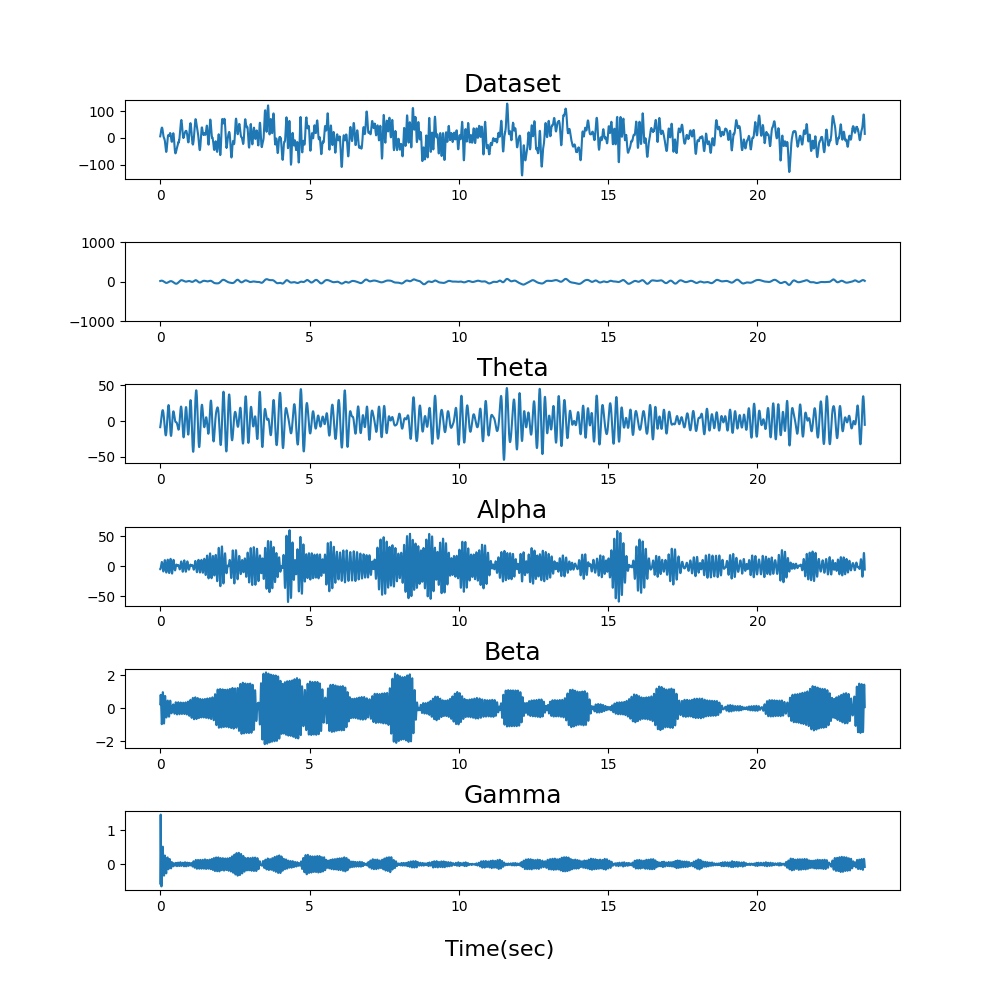
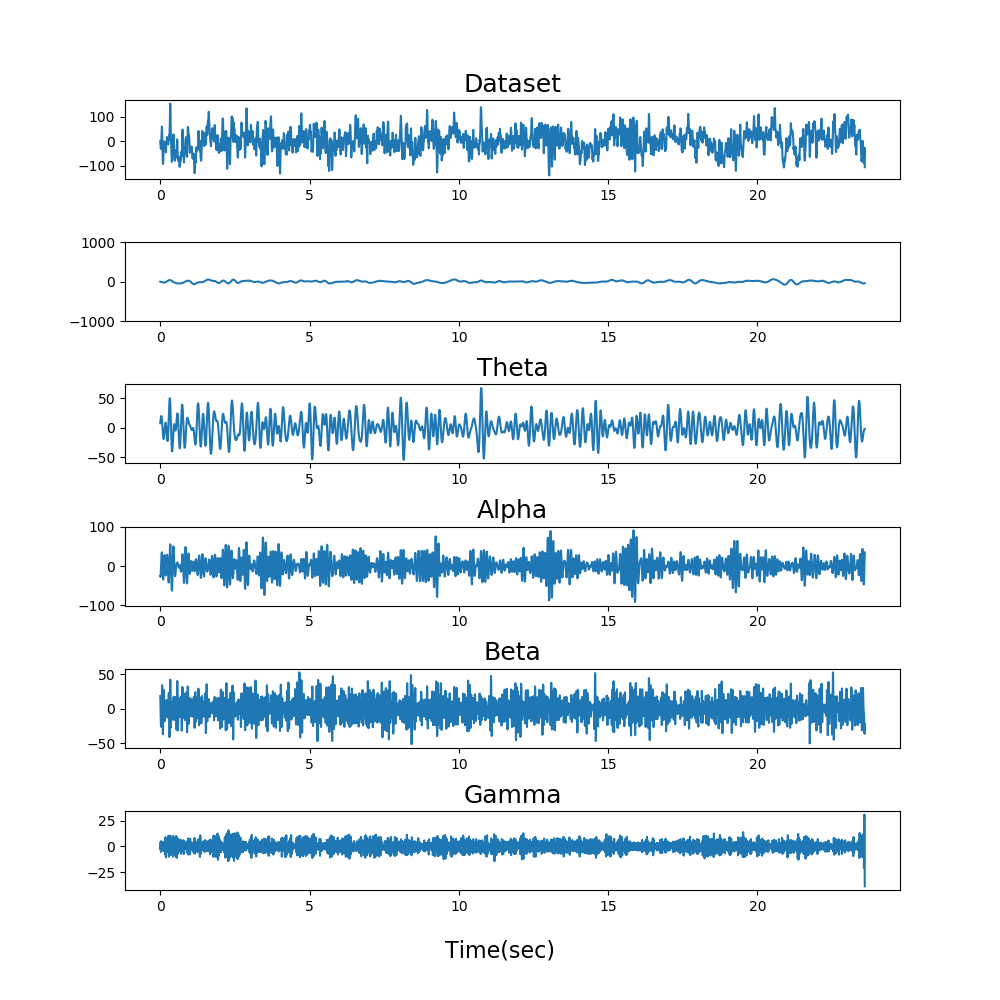
none value and integer

diff --git a/FLASK_APP/flask_app/forms.py b/FLASK_APP/flask_app/forms.py
@@ -20,7 +20,7 @@ class VisualizeForm(FlaskForm):
     # address_B = StringField("address_B", [DataRequired()])
     files_A = MultipleFileField('File(s) Upload A', [DataRequired()])
     files_B = MultipleFileField('File(s) Upload E', [DataRequired()])
-    sampling_rate = StringField("sampling_rate", [DataRequired()])
+    sampling_rate = StringField("sampling_rate", [DataRequired()],default="173.6")
     apply_filter = SelectField(
         "apply_filter",
         [DataRequired()],
@@ -29,22 +29,24 @@ class VisualizeForm(FlaskForm):
             ("no", "no"),
         ],
     )
-    low_frequency = SelectField(
-        "low_frequency",
-        [DataRequired()],
-        choices=[
-            ("80", "80"),
-            ("None", "None"),
-        ],
-    )
-    high_frequency = SelectField(
-        "high_frequency",
-        [DataRequired()],
-        choices=[
-            ("10", "10"),
-            ("None", "None"),
-        ],
-    )
+    low_frequency = StringField("low_frequency", [DataRequired()],default="10")
+    # low_frequency = SelectField(
+    #     "low_frequency",
+    #     [DataRequired()],
+    #     choices=[
+    #         ("80", "80"),
+    #         ("None", "None"),
+    #     ],
+    # )
+    high_frequency = StringField("high_frequency", [DataRequired()],default="80")
+    # high_frequency = SelectField(
+    #     "high_frequency",
+    #     [DataRequired()],
+    #     choices=[
+    #         ("10", "10"),
+    #         ("None", "None"),
+    #     ],
+    # )
     filter_method = SelectField(
         "filter_method",
         [DataRequired()],
@@ -62,25 +64,25 @@ class VisualizeForm(FlaskForm):
             ("blackman", "blackman"),
         ],
     )
-    delta_frequency_initial = StringField("delta_frequency_initial", [DataRequired()])
-    delta_frequency_final = StringField("delta_frequency_final", [DataRequired()])
-    theta_frequency_initial = StringField("theta_frequency_initial", [DataRequired()])
-    theta_frequency_final = StringField("theta_frequency_final", [DataRequired()])
-    alpha_frequency_initial = StringField("alpha_frequency_initial", [DataRequired()])
-    alpha_frequency_final = StringField("alpha_frequency_final", [DataRequired()])
-    beta_frequency_initial = StringField("beta_frequency_initial", [DataRequired()])
-    beta_frequency_final = StringField("beta_frequency_final", [DataRequired()])
-    gamma_frequency_initial = StringField("gamma_frequency_initial", [DataRequired()])
-    gamma_frequency_final = StringField("gamma_frequency_final", [DataRequired()])
-    initial_datapoint = StringField("initial_datapoint", [DataRequired()])
-    final_datapoint = StringField("final_datapoint", [DataRequired()])
+    delta_frequency_initial = StringField("delta_frequency_initial", [DataRequired()],default="0.5")
+    delta_frequency_final = StringField("delta_frequency_final", [DataRequired()],default="3.5")
+    theta_frequency_initial = StringField("theta_frequency_initial", [DataRequired()],default="3.5")
+    theta_frequency_final = StringField("theta_frequency_final", [DataRequired()],default="7.5")
+    alpha_frequency_initial = StringField("alpha_frequency_initial", [DataRequired()],default="7.5")
+    alpha_frequency_final = StringField("alpha_frequency_final", [DataRequired()],default="13")
+    beta_frequency_initial = StringField("beta_frequency_initial", [DataRequired()],default="13")
+    beta_frequency_final = StringField("beta_frequency_final", [DataRequired()],default="30")
+    gamma_frequency_initial = StringField("gamma_frequency_initial", [DataRequired()],default="30")
+    gamma_frequency_final = StringField("gamma_frequency_final", [DataRequired()],default="50")
+    initial_datapoint = StringField("initial_datapoint", [DataRequired()],default="0")
+    final_datapoint = StringField("final_datapoint", [DataRequired()],default="4097")
 
     submit = SubmitField("Next")
 
 
 class FeatureForm(FlaskForm):
     """Feature Form"""
-    window_size = StringField("window_size", [DataRequired()])
+    window_size = StringField("window_size", [DataRequired()],default="4097")
     feat_input = SelectMultipleField(
         "feat_input",
         choices=[
@@ -110,8 +112,8 @@ class FeatureForm(FlaskForm):
             ("none", "none"),
         ],
     )
-    percentage_or_value = StringField("percentage_or_value", [DataRequired()])
-    cv_fold = StringField("cv_fold", [DataRequired()])
+    percentage_or_value = StringField("percentage_or_value", [DataRequired()],default="20")
+    cv_fold = StringField("cv_fold", [DataRequired()],default="5")
     k_fold_index = SelectField(
         "k_fold_index",
         [DataRequired()],

diff --git a/FLASK_APP/flask_app/PHN_300_flask.py b/FLASK_APP/flask_app/PHN_300_flask.py
@@ -69,11 +69,11 @@ def till_display_proceesing(file_address,data):
     apply_filter=data['apply_filter']  #option ['yes','no']
     ############### INPUT
     if(apply_filter=='yes'):
-        low_freq= data['low_frequency']
-        high_freq=data['high_frequency']             # None for low pass filters
+        low_freq= data['low_frequency'] if data['low_frequency'].lower()!="none" else None
+        high_freq= data['high_frequency'] if data['high_frequency'].lower()!="none" else None            # None for low pass filters
         filter_method= data['filter_method'] #option to be given ['fir', 'iir'] 
         window_type= data['window_type']     #option to be given ['hamming','hann','blackman']
-    
+        
         file_data=mne.filter.filter_data(file_data.astype(float),sfreq=sampling_freq,l_freq=low_freq,h_freq=high_freq,method=filter_method,fir_window=window_type)
         
     elif(apply_filter=='no'):
